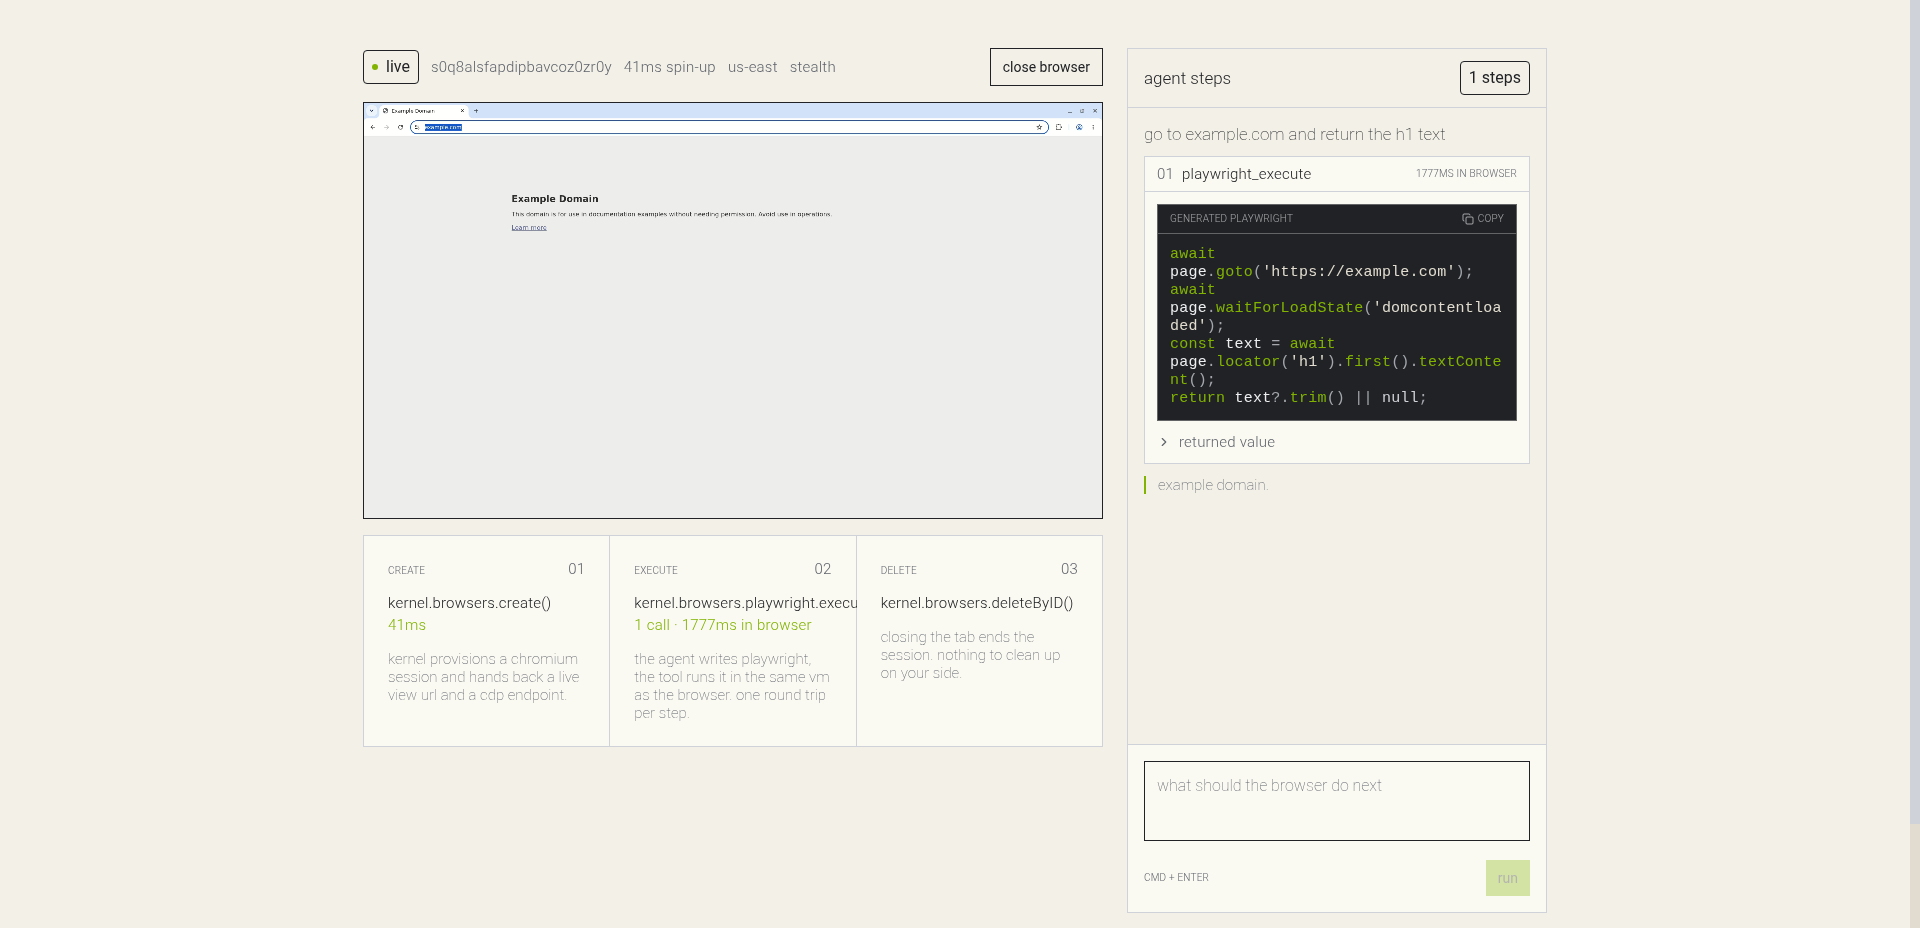
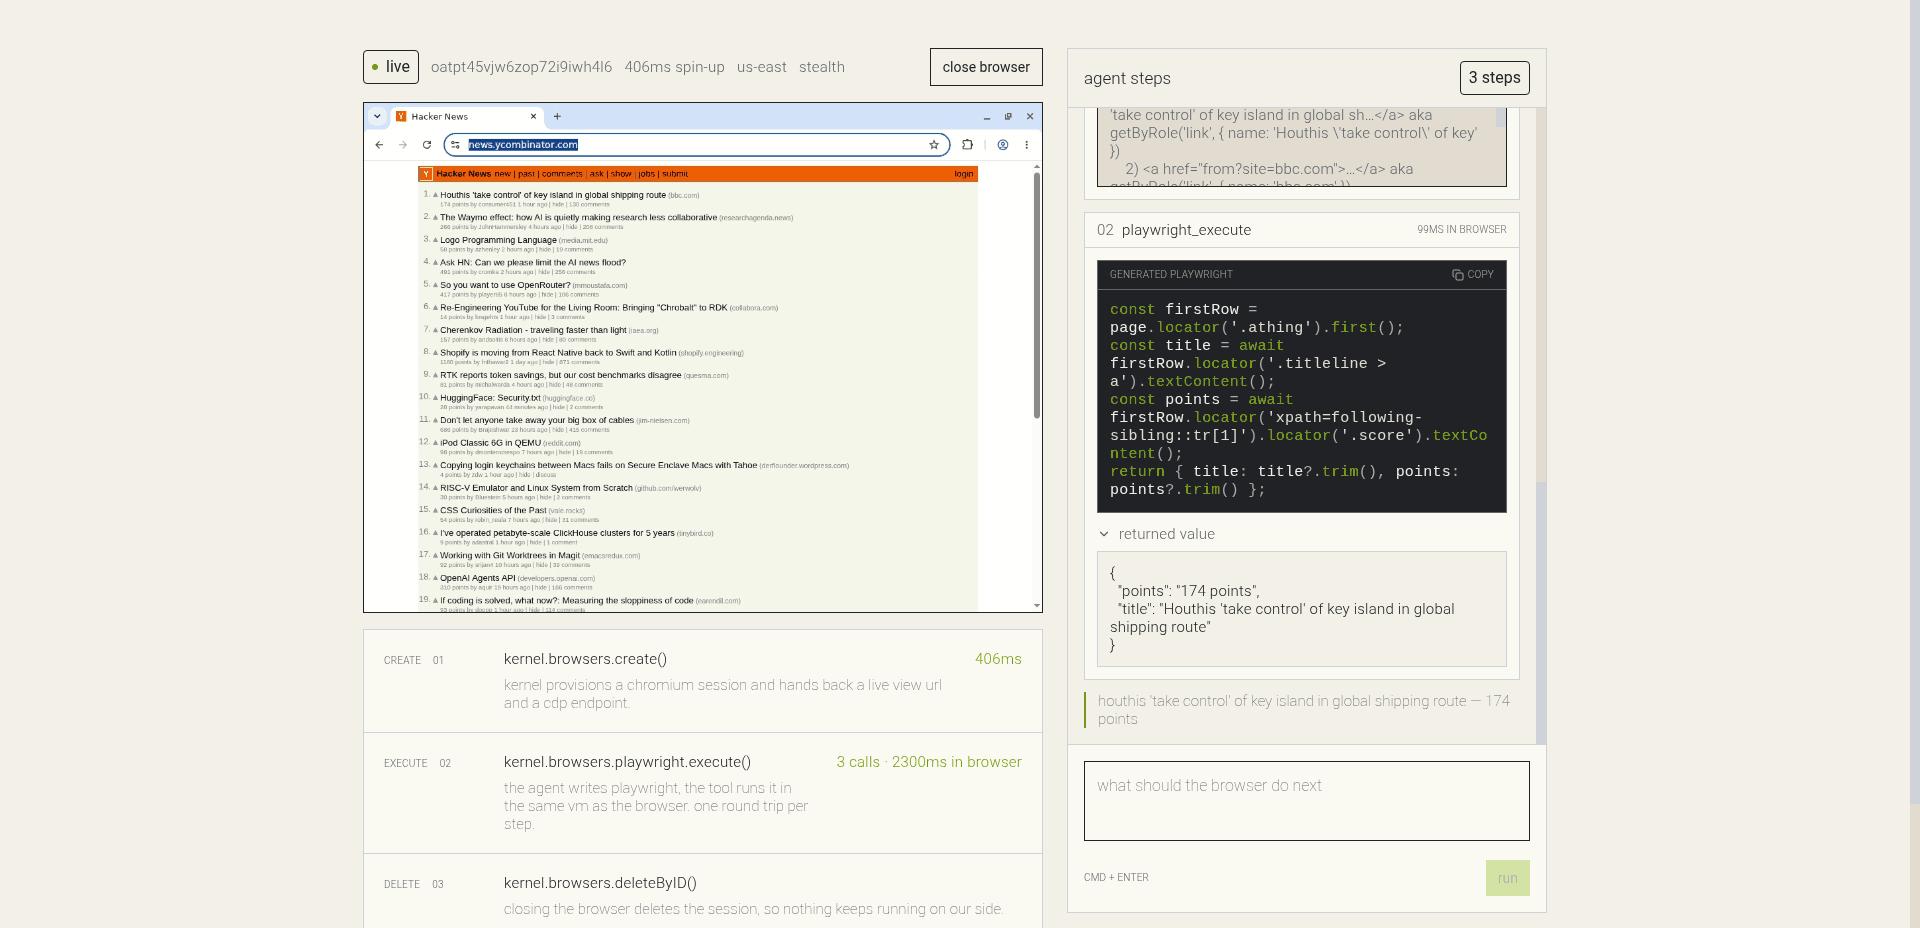
Make the live view and the call list readable at their real size
- create browser sessions at 1024x768, so the live view is legible in the
  space the page gives it instead of being a scaled-down 1920x1080
- move the three-call strip into the browser column as a list, where it fits,
  rather than a three-up grid squeezed into a third of it
- shrink the step numbers to match the labels beside them, and refresh the
  preview screenshot

diff --git a/components/HowItWorks.tsx b/components/HowItWorks.tsx
@@ -21,16 +21,19 @@ const CALLS = [
 
 /**
  * The three SDK calls the template makes, with the numbers from the current
- * session when there is one.
+ * session when there is one. Lands as a row of cards on the landing page and as
+ * a list beside the live view.
  */
 export function HowItWorks({
   spinUpTime,
   executions,
   executionMs,
+  layout = "grid",
 }: {
   spinUpTime?: number;
   executions?: number;
   executionMs?: number;
+  layout?: "grid" | "list";
 }) {
   const values: Record<string, string | undefined> = {
     create: spinUpTime === undefined ? undefined : `${spinUpTime}ms`,
@@ -43,13 +46,46 @@ export function HowItWorks({
     delete: undefined,
   };
 
+  if (layout === "list") {
+    return (
+      <div className="divide-y divide-grey-light-07 border border-grey-light-07 bg-beige-light">
+        {CALLS.map((entry) => (
+          <div
+            key={entry.name}
+            className="flex flex-wrap items-baseline gap-x-6 gap-y-1 p-5"
+          >
+            <div className="flex w-24 shrink-0 items-baseline gap-3">
+              <span className="text-tag text-grey-light-11">{entry.name}</span>
+              <span className="text-tag text-grey-light-11">{entry.step}</span>
+            </div>
+
+            <div className="min-w-0 flex-1">
+              <p className="text-mono-02 text-charcoal" data-preserve-case>
+                {entry.call}
+              </p>
+              <p className="text-body-03 mt-2 text-grey-light-11">
+                {entry.body}
+              </p>
+            </div>
+
+            {values[entry.name] && (
+              <p className="text-mono-02 shrink-0 text-kernel-green">
+                {values[entry.name]}
+              </p>
+            )}
+          </div>
+        ))}
+      </div>
+    );
+  }
+
   return (
     <div className="grid gap-px border border-grey-light-07 bg-grey-light-07 md:grid-cols-3">
       {CALLS.map((entry) => (
-        <div key={entry.name} className="bg-beige-light p-6">
+        <div key={entry.name} className="bg-beige-light p-5">
           <div className="flex items-baseline justify-between">
             <span className="text-tag text-grey-light-11">{entry.name}</span>
-            <span className="text-mono-02 text-grey-light-11">{entry.step}</span>
+            <span className="text-tag text-grey-light-11">{entry.step}</span>
           </div>
 
           <p className="text-mono-02 mt-4 text-charcoal" data-preserve-case>

diff --git a/components/BrowserPanel.tsx b/components/BrowserPanel.tsx
@@ -55,12 +55,13 @@ export function BrowserPanel({
         <iframe
           src={session.liveViewUrl}
           title="KERNEL browser live view"
-          className="aspect-[16/9] w-full"
+          className="aspect-[4/3] w-full"
           allow="camera; microphone; display-capture"
         />
       </div>
 
       <HowItWorks
+        layout="list"
         spinUpTime={session.spinUpTime}
         executions={executions}
         executionMs={executionMs}

diff --git a/app/api/create-browser/route.ts b/app/api/create-browser/route.ts
@@ -25,6 +25,8 @@ export async function POST() {
     const browser = await kernel.browsers.create({
       stealth: true,
       headless: false,
+      // a small window keeps the live view readable in the page
+      viewport: { width: 1024, height: 768, refresh_rate: 60 },
       // keep the session around long enough to run a few tasks against it
       timeout_seconds: 300,
     });
